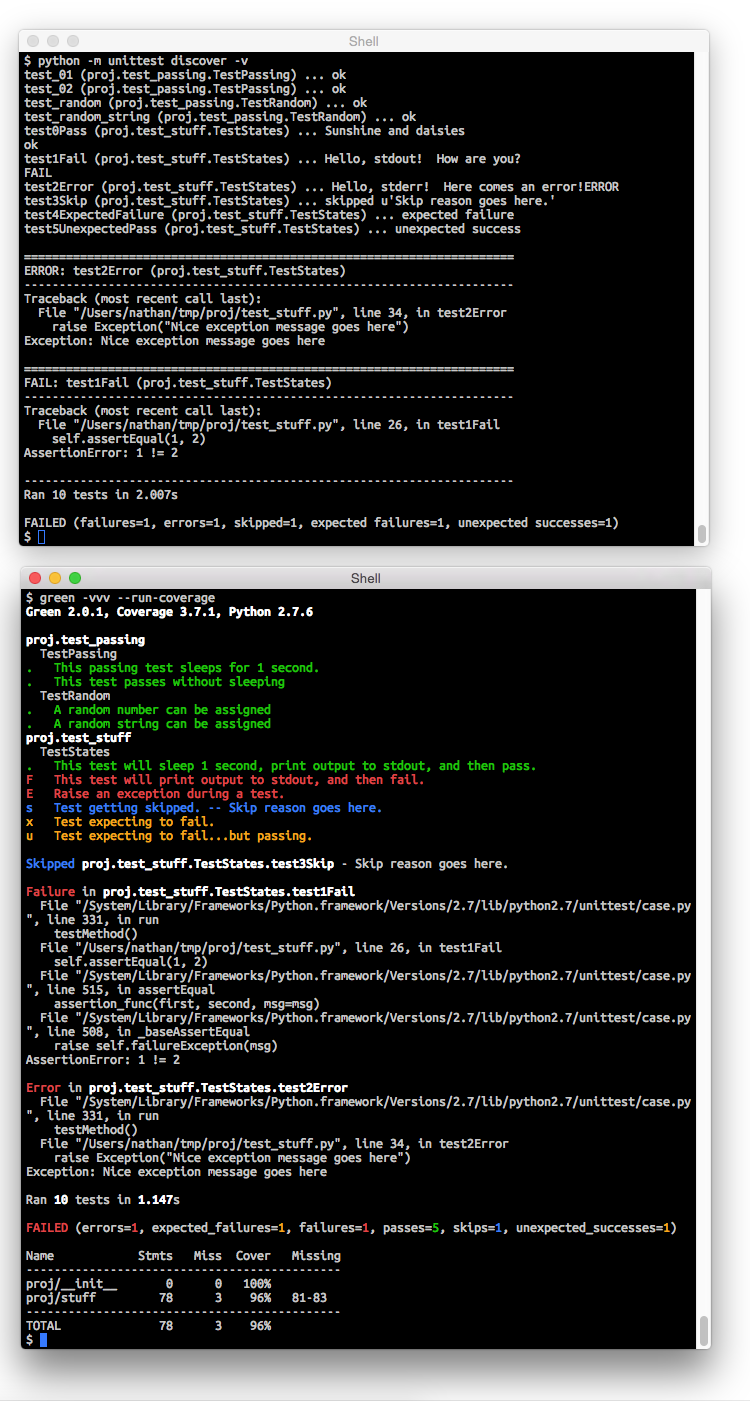
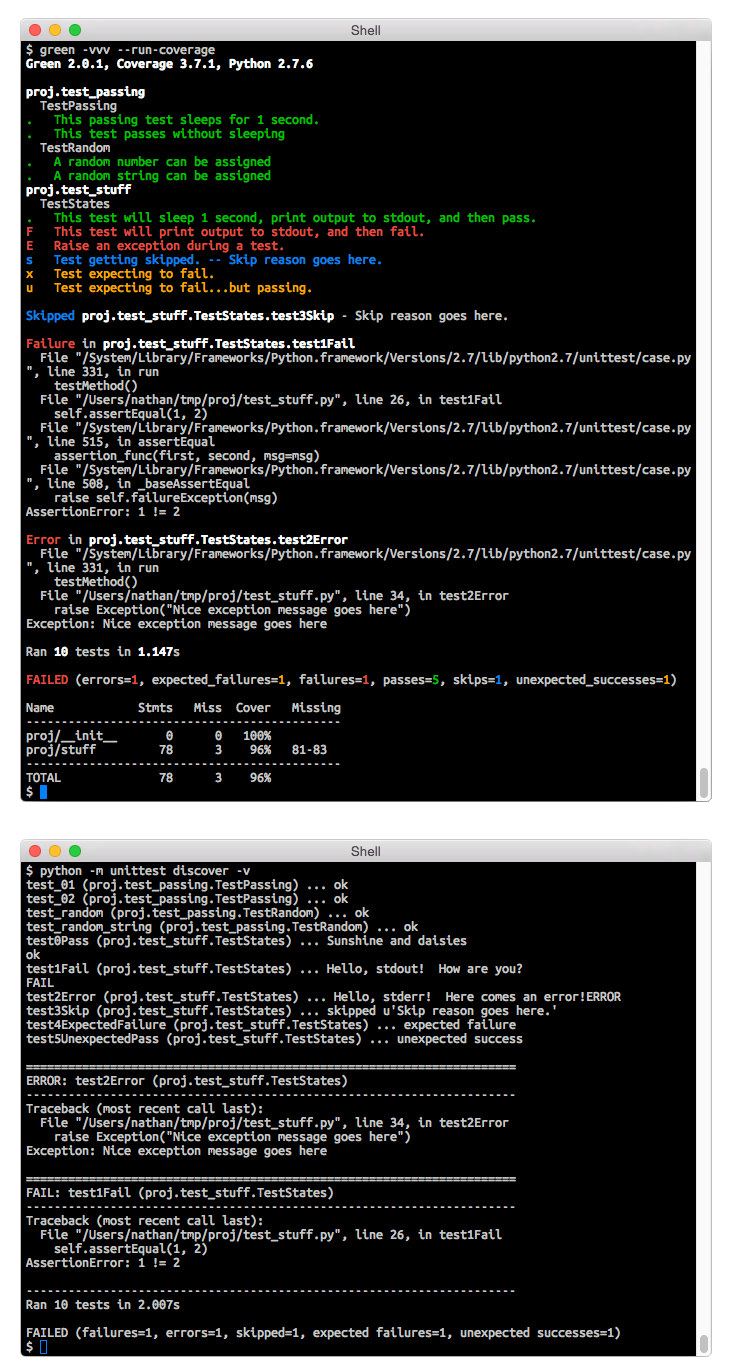
Swapped the order of the two screenshots.

diff --git a/CHANGELOG.md b/CHANGELOG.md
@@ -1,3 +1,13 @@
+# Version 2.0.5
+##### 14 September 2015
+
+- Fixed a bug that would cause a crash if a python package with an invalid (and
+  thus un-importable) name existed within the discovery scope.
+
+- Updated the readme: swapped the features and screenshots section, swapped the
+  positioning of the two screenshots.
+
+
 # Version 2.0.4
 ##### 27 August 2015
 
